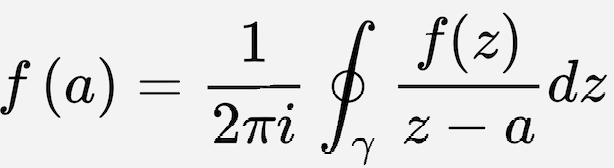
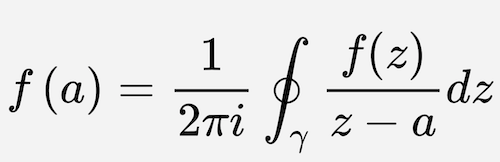
还是不够平滑

diff --git a/sdf-generator/src/sdf2.rs b/sdf-generator/src/sdf2.rs
@@ -53,10 +53,11 @@ impl SDF2 {
             for iy in 0..self.img_size.1 {
                 let luma = self.img.get_pixel(ix, iy)[0] as f32 / 255.0;
                 let index = self.img_index(ix as usize, iy as usize);
+                // shape bounds
                 if luma > 0.5 {
                     out[index] = INF;
                 } else {
-                    out[index] = 0.0;
+                    out[index] = 0.0; 
                 }
             }
         }
@@ -76,17 +77,15 @@ impl SDF2 {
         }
 
         let scale = 255.0 / (max - min);
-        let mut up_scale = 127.0 / max;
-        let mut down_scale = 127.0 / (0.0 - min);
+        
         for i in 0..self.pixel_count {
             if out[i] <= 0.0 {
-                luma_channel[i] = 128 - (out[i] * down_scale) as u8
+                luma_channel[i] = 128 - (out[i] * (127.0 / (0.0 - min))) as u8;
             } else {
-                luma_channel[i] = 127 - (out[i] * up_scale) as u8
+                luma_channel[i] = 128 - (out[i] * (128.0 / max)) as u8;
             }
             // luma_channel[i] = ((out[i] - min) * scale) as u8;
         }
-        println!("-- {}, {}", up_scale, down_scale);
 
         let outf = File::create(&self.output_image_path).unwrap();
         let encoder = image::png::PNGEncoder::<std::fs::File>::new(outf);

diff --git a/sdf-generator/src/sdf.rs b/sdf-generator/src/sdf.rs
@@ -55,10 +55,10 @@ impl SDF {
             for iy in 0..self.img_size.1 {
                 let luma = self.img.get_pixel(ix, iy)[0] as f32 / 255.0;
                 let index = self.img_index(ix as usize, iy as usize);
-                if luma > 0.8 {
+                if luma > 0.98 {
                     grid_inner[index] = INF;
                     grid_outer[index] = 0.0;
-                } else if luma == 0.0 {
+                } else if luma < 0.1 {
                     grid_inner[index] = 0.0;
                     grid_outer[index] = INF;
                 } else {
@@ -73,8 +73,6 @@ impl SDF {
 
         for i in 0..self.pixel_count {
             let d = grid_outer[i].sqrt() - grid_inner[i].sqrt();
-            // let d = grid_inner[i].sqrt();
-
             luma_channel[i] = (255.0 - 255.0 * (d / self.radius + self.cutoff)).round() as u8;
             // luma_channel[i] = (255.0 * (d + 1.0) / 2.0) as u8;
             // if d < 0.4 {

diff --git a/src/sdf_text_view.rs b/src/sdf_text_view.rs
@@ -27,7 +27,7 @@ impl SDFTextView {
 
         // Create the texture
         let (texture_view, _texture_extent, _sampler) = texture::from_file_and_usage_write(
-            "math-sdf2.png",
+            "math-sdf.png",
             &mut app_view.device,
             &mut encoder,
             false, true
